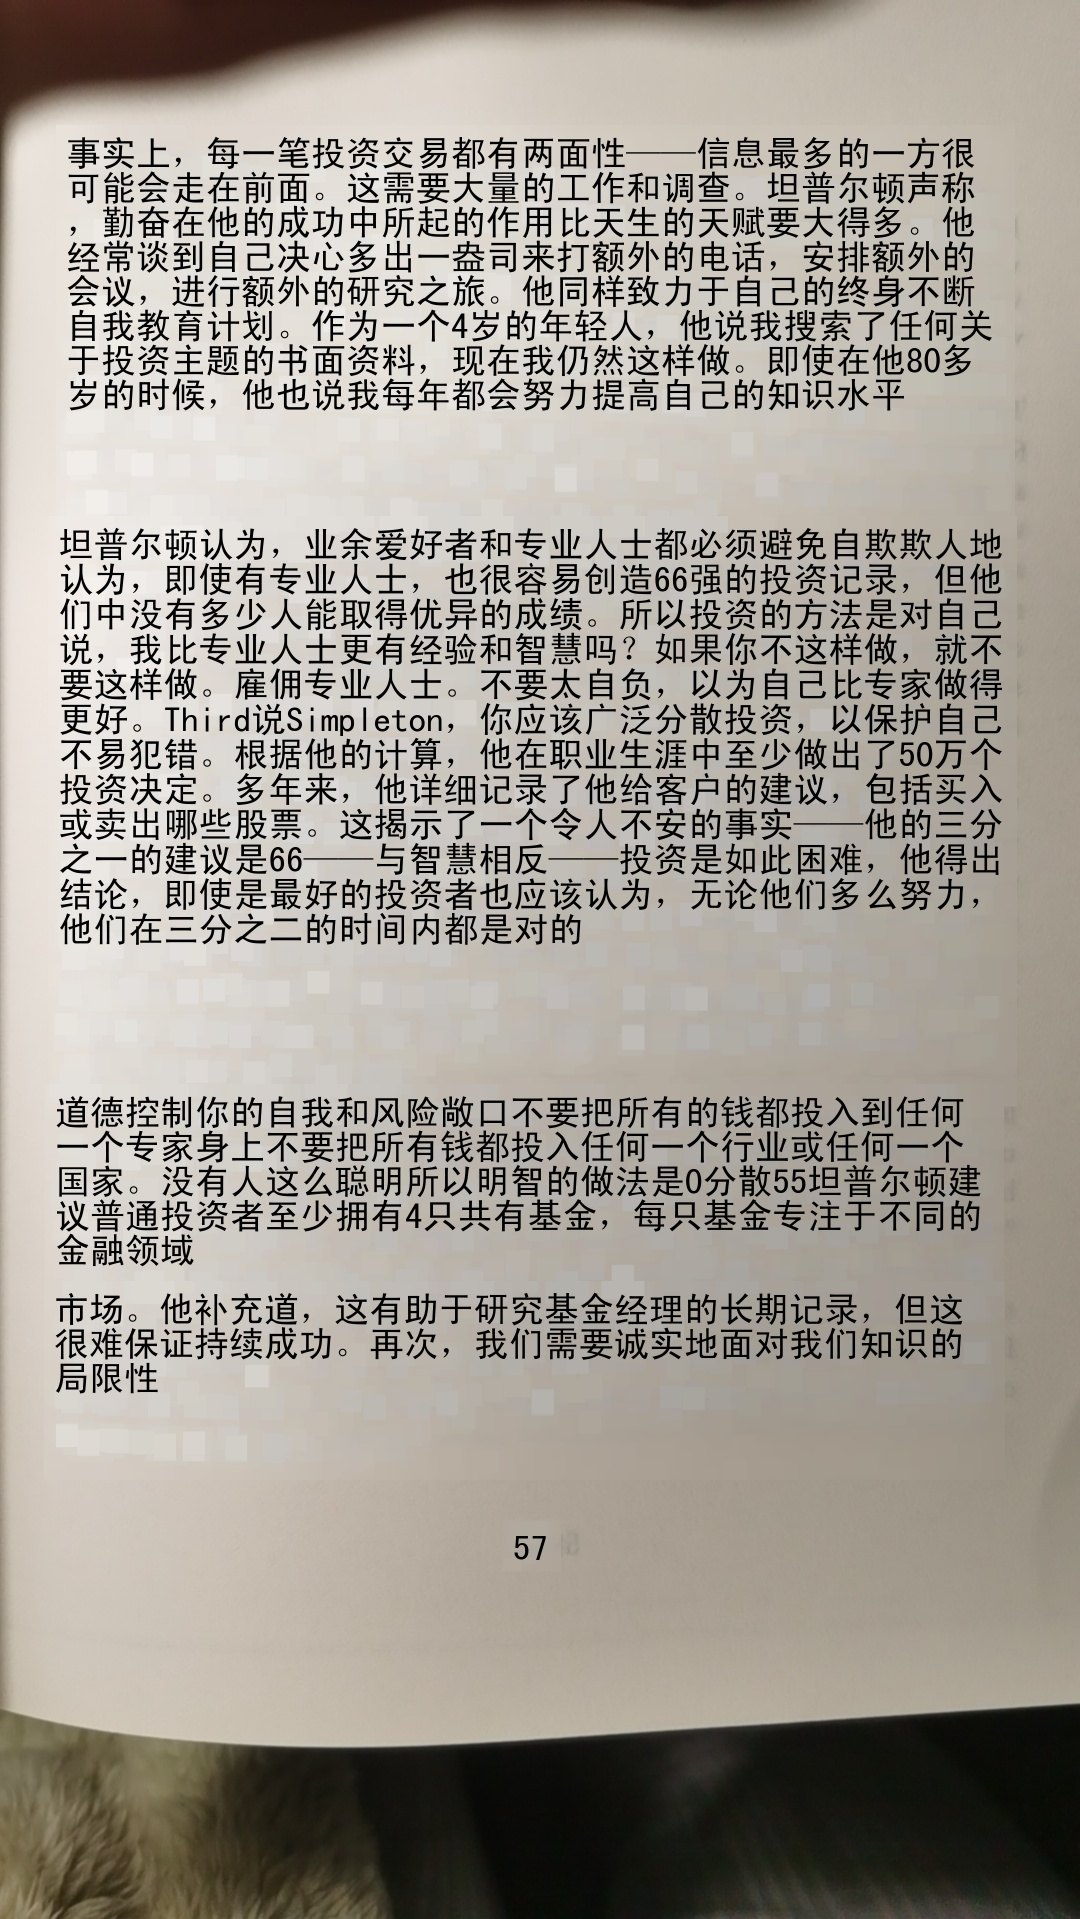
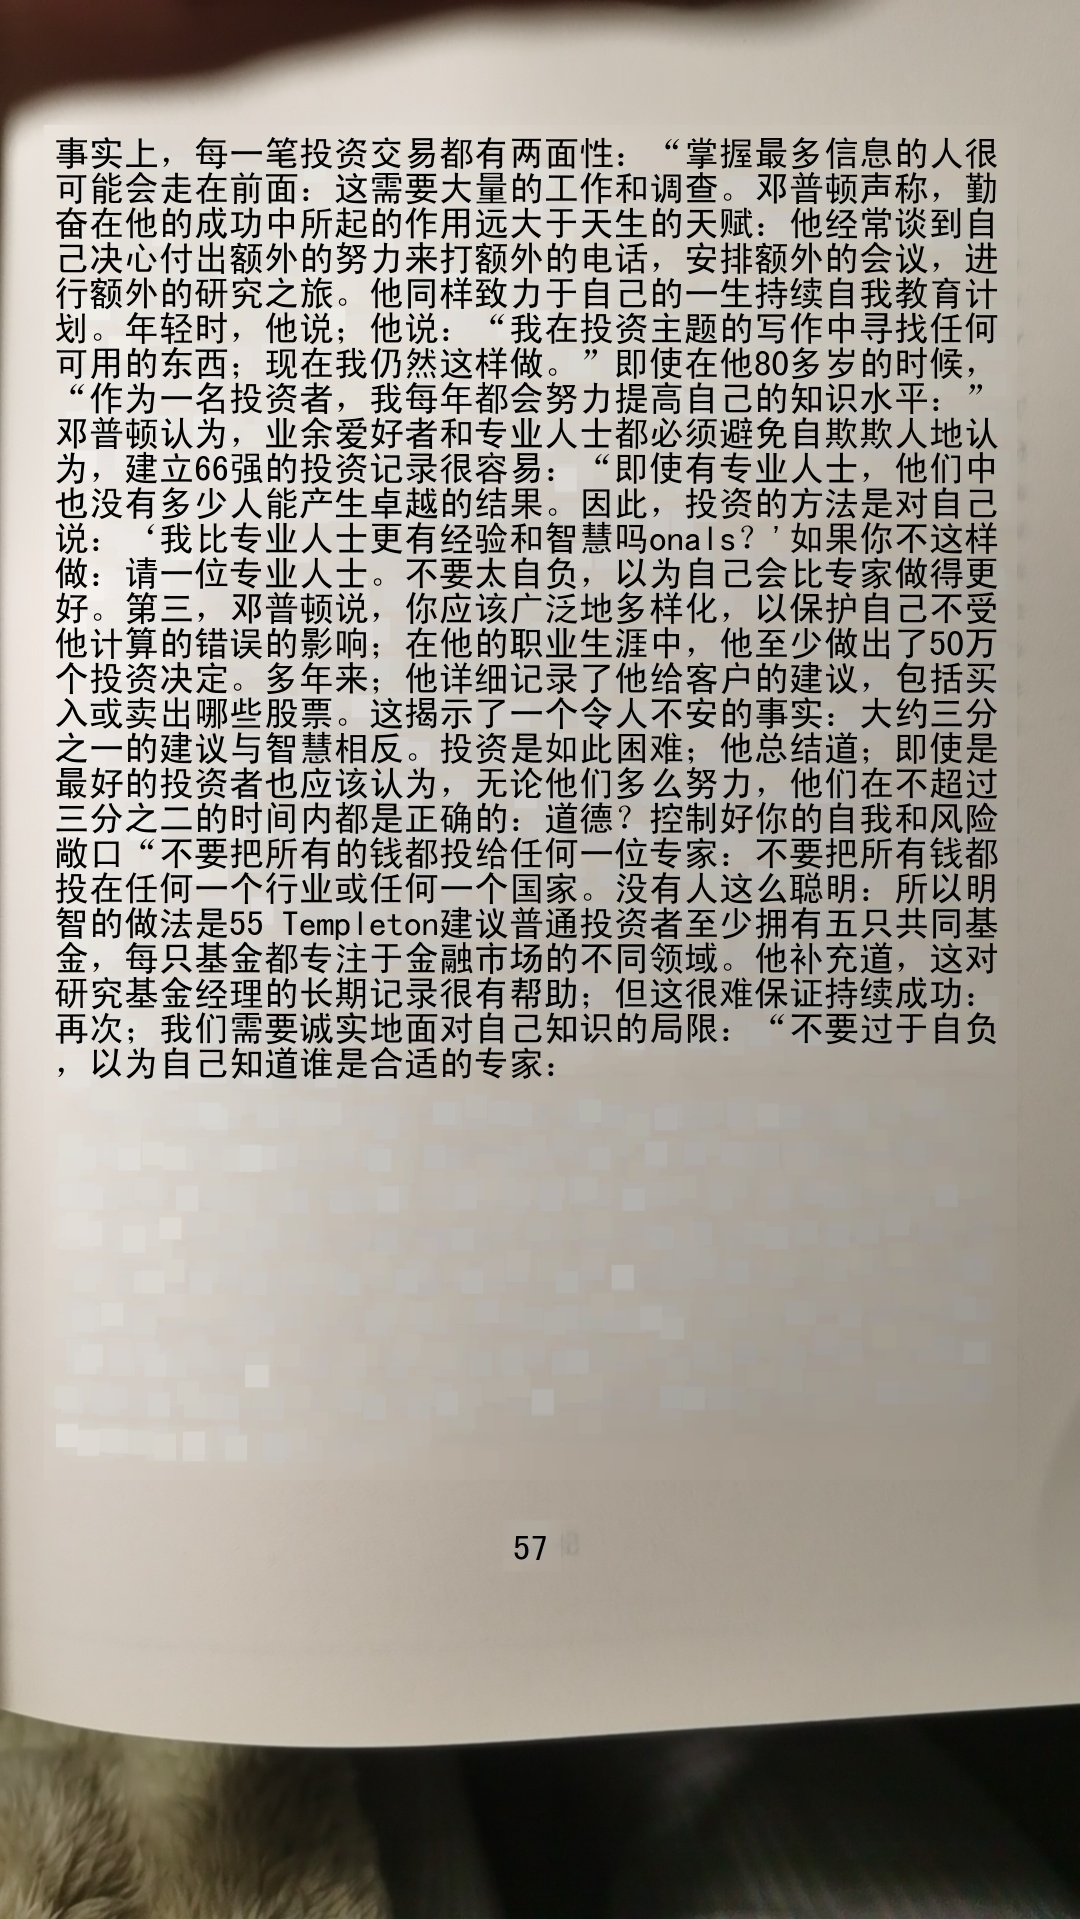
Update

Changed region(s): [[0.0306, 0.0615, 0.9472, 0.7379]]

diff --git a/export.py b/export.py
@@ -207,18 +207,28 @@ class OCR(object):
             self.draw_img = self.mask(self.draw_img, x1, y1, x2, y2)
     
     def llama_correct(self, paragraph_text):
-        from tools.sentence_split import sentence_token_nltk
-        from posts.llama_POST import submit_request
-        sents = sentence_token_nltk(paragraph_text)
-        text = ""
-        for sent in sents:
-            result_list = submit_request(sent)
+        
+        if len(paragraph_text) < 25:
+            from tools.sentence_split import sentence_token_nltk
+            from posts.llama_POST import submit_request_spell_sent
+            sents = sentence_token_nltk(paragraph_text)
+            text = ""
+            for sent in sents:
+                result_list = submit_request_spell_sent(sent)
+                raw_answer = result_list[0]
+                answers = raw_answer.split("Answer:")
+                last_answer = answers[-1].strip()
+                real_answer = last_answer.replace("Answer:", "").strip()
+                text = text + real_answer + " "
+            return text
+        else:
+            from posts.llama_POST import submit_request_spell_paragraph
+            result_list = submit_request_spell_paragraph(paragraph_text)
             raw_answer = result_list[0]
             answers = raw_answer.split("Answer:")
             last_answer = answers[-1].strip()
             real_answer = last_answer.replace("Answer:", "").strip()
-            text = text + real_answer + " "
-        return text
+            return real_answer + " "
     
     def put_texts(self):
         img = Image.fromarray(self.draw_img)

diff --git a/posts/llama_POST.py b/posts/llama_POST.py
@@ -1,7 +1,7 @@
 import requests
 
-def submit_request(question):
-    url = "http://localhost:25005/spell"  # 应用程序的 URL
+def submit_request_spell_sent(question):
+    url = "http://localhost:25005/spell_sent"  # 应用程序的 URL
     data = {"question": question}  # 请求的数据
 
     response = requests.post(url, data=data)  # 发送 POST 请求
@@ -13,10 +13,22 @@ def submit_request(question):
         print("Request failed with status code:", response.status_code)
         return None
 
+def submit_request_spell_paragraph(question):
+    url = "http://localhost:25005/spell_paragraph"  # 应用程序的 URL
+    data = {"question": question}  # 请求的数据
+
+    response = requests.post(url, data=data)  # 发送 POST 请求
+
+    if response.status_code == 200:
+        result = response.json()  # 获取返回的 JSON 数据
+        return result
+    else:
+        print("Request failed with status code:", response.status_code)
+        return None
 
 if __name__ == "__main__":
     # 调用示例
     question = "fact is that im not a humman"
-    result = submit_request(question)
+    result = submit_request_spell_sent(question)
     if result is not None:
         print("Result:", result)
